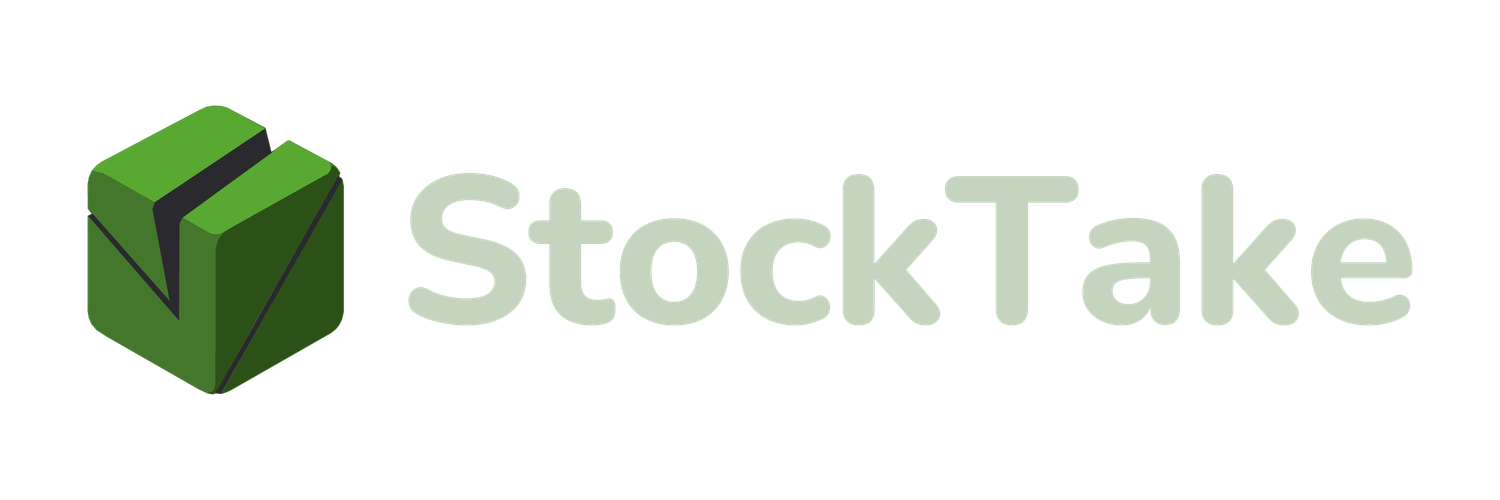
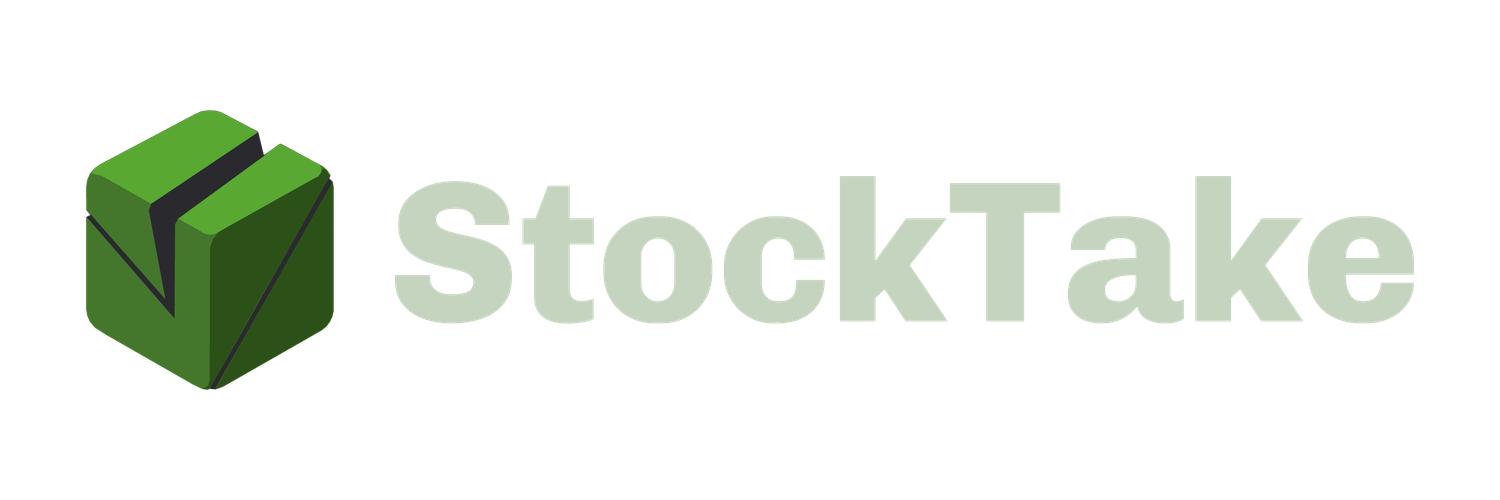
chore: re-sync the brand assets after the kit was rebuilt
brandkit 1.49.0 rebuilt the kit and changed this product's typeface to Chivo,
which redraws the wordmark, which is drawn art inside the banner exports. So
both PNGs had drifted:

    $ brandkit check stocktake docs/brand --set readme
    edited in place: lockup/banner/lockup-horizontal-dark-banner.png
    edited in place: lockup/banner/lockup-horizontal-light-banner.png
    ... has drifted from stocktake

Re-copied through the kit's own route rather than by hand, as BRAND.md insists:

    brandkit bundle stocktake docs/brand --set readme

`check` now says the copy matches. Both cuts were opened and read correctly, and
the README's <picture> block already matches what BRAND.md prescribes today --
the pair, dark source first, width="480", align on the paragraph -- so nothing
there needed changing. Three files: the two PNGs and their hashes in
BUNDLE.json.

The other half of the instruction was to link template/fonts.css, ship
font/*.woff beside it and drop any hard-coded font-family from our own CSS.
None of that has a target here, and BRAND.md is the authority saying so:

  "A repository is not an application. A command-line tool has no screen, and a
   static/brand folder of stylesheets, fonts and maskable icons in a project
   that has no static/ is a set nobody will keep in step."

Which is why it defines a second, named set, and why that set is exactly two
files. Concretely: `git ls-files` finds no .css, .html, .js or font file in this
[…]

diff --git a/docs/HANDOFF.md b/docs/HANDOFF.md
@@ -127,7 +127,8 @@ These come from the original's first real run and from building M0. None should 
   PYTHONPATH="C:/Users/Kpier/Documents/Brand Logos/src" py -3.13 -m brandkit check  stocktake docs/brand --set readme
   ```
 
-  `brandkit` is not installed or on PATH; that is how to run it from its source, and its only dependencies (Pillow, fontTools) are already in the global Python 3.13. `BUNDLE.json` beside the images is what `check` compares against, so leave it there.
+  `brandkit` is not installed or on PATH; that is how to run it from its source, and its only dependencies (Pillow, fontTools) are already in the global Python 3.13. **`py -3.13` specifically** - a bare `py` is 3.11 here and has neither, which costs a few minutes to rediscover. `BUNDLE.json` beside the images is what `check` compares against, so leave it there.
+- **The `readme` set is two files, and that is deliberate.** `BUNDLE.json` lists exactly the light and dark banner PNGs. The `app` set beside it carries 41, including `template/fonts.css` and `font/chivo.woff`, and none of those belong here: StockTake tracks no CSS, no HTML, no JS and no fonts, so there is nothing to link a stylesheet *from*, and the one surface that shows the brand is a Markdown README, where GitHub's sanitiser strips `<link>` and `<style>`. BRAND.md says this itself, under "Taking this into a project": *"A repository is not an application. A command-line tool has no screen, and a `static/brand` folder of stylesheets, fonts and maskable icons in a project that has no `static/` is a set nobody will keep in step."* The typeface reaches StockTake through the banner art, which is drawn with it, so re-running `bundle` **is** how a typeface change lands here. Measured, not assumed: `check --set readme` validates only the two files it knows and says "matches" even with extra files beside them, so anything else copied in would rot silently and nothing would report it.
 - **`BRAND.md` in `Brand Logos/dist/stocktake/` is the only file to consult about the brand**, and it says so itself: if a job is not listed there, ask for one rather than picking a file that looks close. That is how the README job came to exist.
 
 ## Projects to try it on (M5)
@@ -141,6 +142,15 @@ The owner has about ten repositories available for this, and the list is the mos
 In [PRD.md](PRD.md) under "Open questions". None block M1. The one worth deciding soonest: whether to publish `stocktake` to PyPI now (the name is free as of 2026-10-29) or wait until there are two real consumers.
 
 ## Session log
+### Session 12 - 2026-11-01
+Re-synced the brand assets after the kit was rebuilt as 1.49.0 and this product's typeface changed to Chivo. `brandkit check` showed both banner PNGs had drifted; `brandkit bundle stocktake docs/brand --set readme` replaced them and `check` now says the copy matches. Both cuts were opened and read correctly, and the README's `<picture>` block already matches what BRAND.md prescribes today (the pair, dark source first, `width="480"`, `align` on the paragraph), so nothing there needed changing. Three files changed: the two PNGs and the hashes in `BUNDLE.json`.
+
+The instruction also asked to link `template/fonts.css`, ship `font/*.woff` beside it and drop any hard-coded `font-family` from our own CSS. **None of that has a target in this repository, and BRAND.md is the authority saying so** - the detail is now recorded beside the brandkit commands above so it is not attempted again. In short: StockTake tracks no CSS, HTML, JS or font file at all (checked with `git ls-files`; every `font-family` match in the tree is inside `.venv`), the `readme` set is two PNGs by definition, and the typeface arrives in the drawn banner art rather than through a stylesheet. `docs/DESIGN.md` has said the same thing since it was written: the web-app parts of the house standard are "deliberately absent" for a CLI tool.
+
+One thing I got wrong and corrected by testing rather than asserting: I expected `brandkit check --set readme` to flag extra files copied into `docs/brand`, and it does not - it validates its two files and ignores everything else. The bare `check` against the app set does report extras as "not part of the bundle". That is why the argument above rests on there being nothing to load the sheet, not on the checker catching it.
+
+No code changed, so no tests, lint, mypy or `vendored/` regeneration were in scope; the suite was run anyway and is green at 528. Committed locally; not pushed.
+
 ### Session 11 - 2026-10-30
 Added `[[policy.ignore_package]]`, the one feature request from either trial worth a yes, after the owner said yes to it. A project can now accept a vulnerable package at a version in one entry instead of one entry per advisory id - 58 of them for one real project's `electron` and `tar` findings, which is a file nobody writes, and the trial's own conclusion was therefore to not gate on the check at all. [ADR 0011](adr/0011-accepting-a-vulnerable-package.md) records the counter-argument it had been held on, and what changed: the per-advisory friction was protecting the wrong thing, because a gate that is off reports nothing.
 
